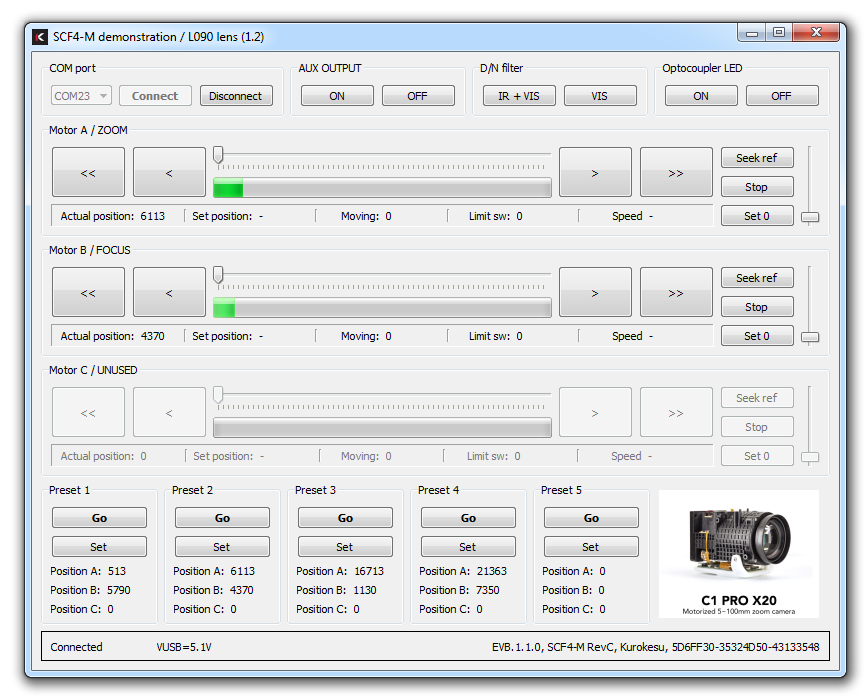
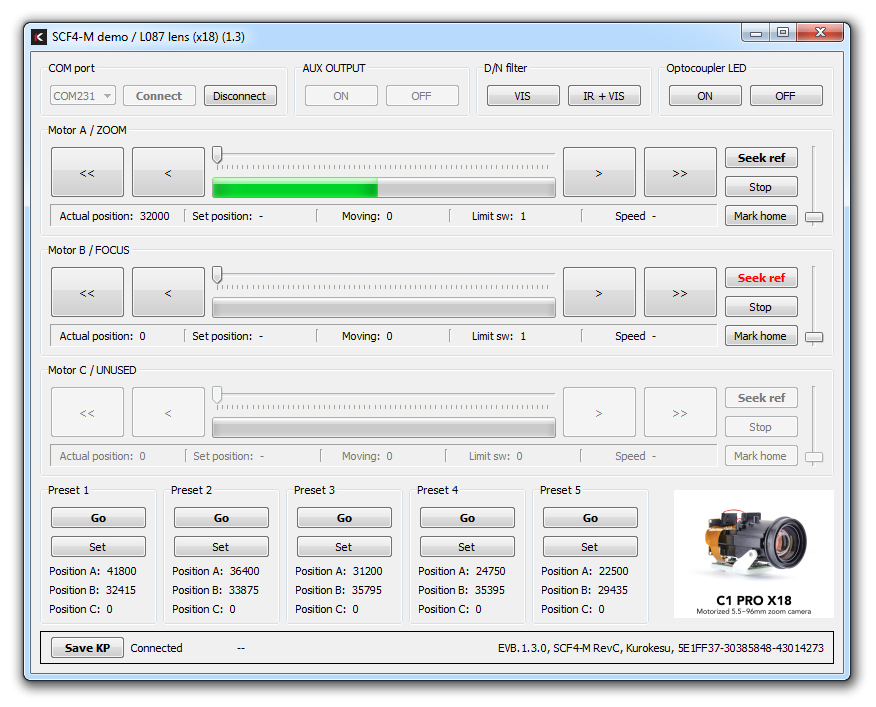
x18: added calibration notification, added save KP feature

Changed region(s): [[0.0, 0.03, 0.9954, 0.99]]

diff --git a/src/gui_L087 (for C1_PRO_X18 camera)/gui.py b/src/gui_L087 (for C1_PRO_X18 camera)/gui.py
@@ -149,6 +149,7 @@ class Ui_MainWindow(object):
         font.setBold(True)
         font.setWeight(75)
         self.btn_a_seek.setFont(font)
+        self.btn_a_seek.setStyleSheet("QPushButton {color: red;}")
         self.btn_a_seek.setObjectName("btn_a_seek")
         self.verticalLayout_2.addWidget(self.btn_a_seek)
         self.btn_a_stop = QtWidgets.QPushButton(self.group_a)
@@ -336,6 +337,7 @@ class Ui_MainWindow(object):
         font.setBold(True)
         font.setWeight(75)
         self.btn_b_seek.setFont(font)
+        self.btn_b_seek.setStyleSheet("QPushButton {color: red;}")
         self.btn_b_seek.setObjectName("btn_b_seek")
         self.verticalLayout_4.addWidget(self.btn_b_seek)
         self.btn_b_stop = QtWidgets.QPushButton(self.group_b)
@@ -638,7 +640,7 @@ class Ui_MainWindow(object):
         self.label_ser_status.setMinimumSize(QtCore.QSize(100, 0))
         self.label_ser_status.setObjectName("label_ser_status")
         self.horizontalLayout_38.addWidget(self.label_ser_status)
-        self.gridLayout_10.addLayout(self.horizontalLayout_38, 0, 0, 1, 1)
+        self.gridLayout_10.addLayout(self.horizontalLayout_38, 0, 1, 1, 1)
         self.horizontalLayout_39 = QtWidgets.QHBoxLayout()
         self.horizontalLayout_39.setObjectName("horizontalLayout_39")
         self.label_ser_version = QtWidgets.QLabel(self.frame_4)
@@ -646,16 +648,28 @@ class Ui_MainWindow(object):
         self.label_ser_version.setAlignment(QtCore.Qt.AlignRight|QtCore.Qt.AlignTrailing|QtCore.Qt.AlignVCenter)
         self.label_ser_version.setObjectName("label_ser_version")
         self.horizontalLayout_39.addWidget(self.label_ser_version)
-        self.gridLayout_10.addLayout(self.horizontalLayout_39, 0, 3, 1, 1)
+        self.gridLayout_10.addLayout(self.horizontalLayout_39, 0, 4, 1, 1)
         spacerItem = QtWidgets.QSpacerItem(40, 20, QtWidgets.QSizePolicy.Expanding, QtWidgets.QSizePolicy.Minimum)
-        self.gridLayout_10.addItem(spacerItem, 0, 2, 1, 1)
+        self.gridLayout_10.addItem(spacerItem, 0, 3, 1, 1)
         self.horizontalLayout_40 = QtWidgets.QHBoxLayout()
         self.horizontalLayout_40.setObjectName("horizontalLayout_40")
         self.label_voltage = QtWidgets.QLabel(self.frame_4)
         self.label_voltage.setMinimumSize(QtCore.QSize(50, 0))
         self.label_voltage.setObjectName("label_voltage")
         self.horizontalLayout_40.addWidget(self.label_voltage)
-        self.gridLayout_10.addLayout(self.horizontalLayout_40, 0, 1, 1, 1)
+        self.gridLayout_10.addLayout(self.horizontalLayout_40, 0, 2, 1, 1)
+        self.push_save_go = QtWidgets.QPushButton(self.frame_4)
+        sizePolicy = QtWidgets.QSizePolicy(QtWidgets.QSizePolicy.Minimum, QtWidgets.QSizePolicy.Expanding)
+        sizePolicy.setHorizontalStretch(0)
+        sizePolicy.setVerticalStretch(0)
+        sizePolicy.setHeightForWidth(self.push_save_go.sizePolicy().hasHeightForWidth())
+        self.push_save_go.setSizePolicy(sizePolicy)
+        font = QtGui.QFont()
+        font.setBold(True)
+        font.setWeight(75)
+        self.push_save_go.setFont(font)
+        self.push_save_go.setObjectName("push_save_go")
+        self.gridLayout_10.addWidget(self.push_save_go, 0, 0, 1, 1)
         self.gridLayout_14.addWidget(self.frame_4, 6, 0, 1, 4)
         spacerItem1 = QtWidgets.QSpacerItem(20, 1, QtWidgets.QSizePolicy.Minimum, QtWidgets.QSizePolicy.Expanding)
         self.gridLayout_14.addItem(spacerItem1, 4, 3, 1, 1)
@@ -1035,6 +1049,7 @@ class Ui_MainWindow(object):
         self.label_ser_status.setText(_translate("MainWindow", "--"))
         self.label_ser_version.setText(_translate("MainWindow", "--"))
         self.label_voltage.setText(_translate("MainWindow", "--"))
+        self.push_save_go.setText(_translate("MainWindow", "Save KP"))
         self.group_p1.setTitle(_translate("MainWindow", "Preset 1"))
         self.push_pr1_set.setText(_translate("MainWindow", "Set"))
         self.label_29.setText(_translate("MainWindow", "Position C:"))

diff --git a/src/gui_L087 (for C1_PRO_X18 camera)/main.py b/src/gui_L087 (for C1_PRO_X18 camera)/main.py
@@ -1,13 +1,5 @@
 import sys
 import os
-import serial.tools.list_ports
-
-'''
-com_ports = sorted(serial.tools.list_ports.comports())
-for port, desc, hwid in com_ports:
-    print(port.strip())
-'''
-
 from PyQt5 import QtCore, QtGui, QtWidgets, uic
 from PyQt5 import sip
 from PyQt5.QtCore import Qt, QTimer, QThread
@@ -26,7 +18,19 @@ MOVE_REL      = 0
 MOVE_ABS      = 1
 
 # print(sys.version)
-# ser = serial.Serial()
+
+if os.name == 'nt':
+    from serial.tools.list_ports_windows import *
+elif sys.platform == 'darwin':
+    from serial.tools.list_ports_osx import *
+    from serial.tools.list_ports_vid_pid_osx_posix import *
+elif os.name == 'posix':
+    from serial.tools.list_ports_posix import *
+    from serial.tools.list_ports_vid_pid_osx_posix import *
+else:
+    raise ImportError("Serial error: no implementation for your platform ('%s') available" % (os.name,))
+
+ser = serial.Serial()
 q = queue.Queue()
 q_labels = queue.Queue()
 
@@ -55,7 +59,7 @@ class MyWindowClass(QtWidgets.QMainWindow, gui.Ui_MainWindow):
 
         # get available com ports
         self.combo_ports.clear()
-        com_ports = sorted(serial.tools.list_ports.comports())
+        com_ports = sorted(comports())
         for port, desc, hwid in com_ports:
             self.combo_ports.addItem(port.strip())
 
@@ -72,6 +76,12 @@ class MyWindowClass(QtWidgets.QMainWindow, gui.Ui_MainWindow):
         self.hw.moveToThread(self.thread_serial)
         self.thread_serial.started.connect(self.hw.serial_worker)
         self.thread_serial.start()
+        #self.config["saved_points"] = []
+
+        if self.config["enable_save_keypoint_button"] == True:
+            self.push_save_go.show()
+        else:
+            self.push_save_go.hide()
 
         self.slider_a_speed.setMinimum(self.config["speed_min"])
         self.slider_a_speed.setMaximum(self.config["speed_max"])
@@ -95,6 +105,9 @@ class MyWindowClass(QtWidgets.QMainWindow, gui.Ui_MainWindow):
         self.btn_dn2.clicked.connect(self.btn_dn2_clicked)
         self.btn_aux_on.clicked.connect(self.btn_aux_on_clicked)
         self.btn_aux_off.clicked.connect(self.btn_aux_off_clicked)
+        self.push_save_go.clicked.connect(self.push_save_go_clicked)
+
+        
 
         self.btn_a_left.clicked.connect(self.btn_a_left_clicked)
         self.btn_a_right.clicked.connect(self.btn_a_right_clicked)
@@ -352,12 +365,15 @@ class MyWindowClass(QtWidgets.QMainWindow, gui.Ui_MainWindow):
 
     def btn_a_seek_clicked(self):
         self.hw.action_recipe.put("seek_a")
+        self.btn_a_seek.setStyleSheet('')
 
     def btn_b_seek_clicked(self):
         self.hw.action_recipe.put("seek_b")
+        self.btn_b_seek.setStyleSheet('')
 
     def btn_c_seek_clicked(self):
         self.hw.action_recipe.put("seek_c")
+        self.btn_c_seek.setStyleSheet('')
 
     def push_pr1_set_clicked(self):
         self.config["presets"]["1"]["A"] = self.config["current"]["A"]["pos"]
@@ -423,6 +439,11 @@ class MyWindowClass(QtWidgets.QMainWindow, gui.Ui_MainWindow):
     def push_pr5_go_clicked(self):
         self.set_move_mode(MOVE_ABS)
         self.hw.send("G0 A" + str(self.config["presets"]["5"]["A"]) + " B" + str(self.config["presets"]["5"]["B"]) + " C" + str(self.config["presets"]["5"]["C"]) + "\r\n")
+
+    def push_save_go_clicked(self):
+        print("KP:", self.label_a_pos.text(), self.label_b_pos.text())
+        #pos = (float(self.label_a_pos.text()), float(self.label_b_pos.text()))
+        #self.config["saved_points"].append(pos)       
 
     def closeEvent(self, event):
         global config
